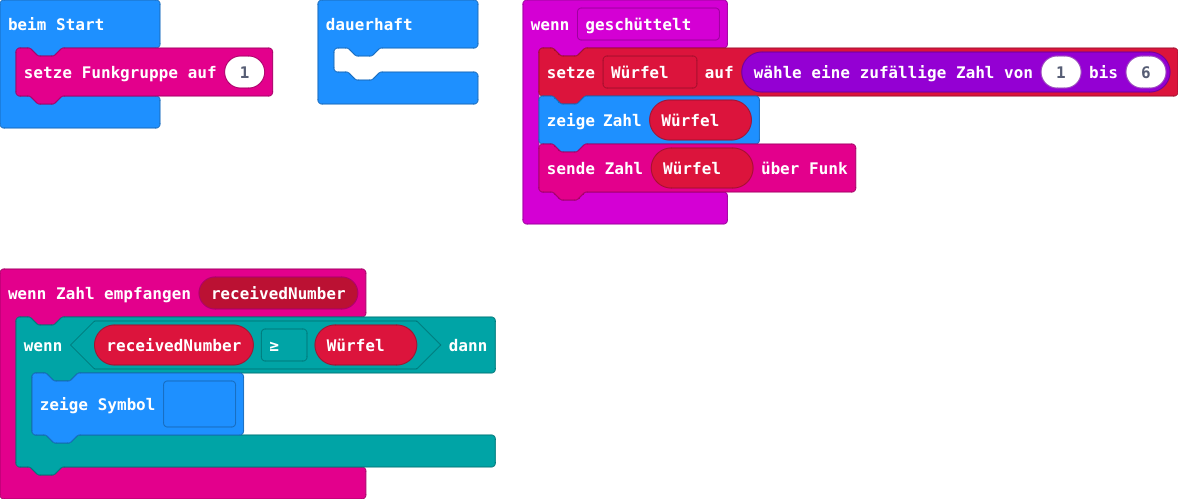
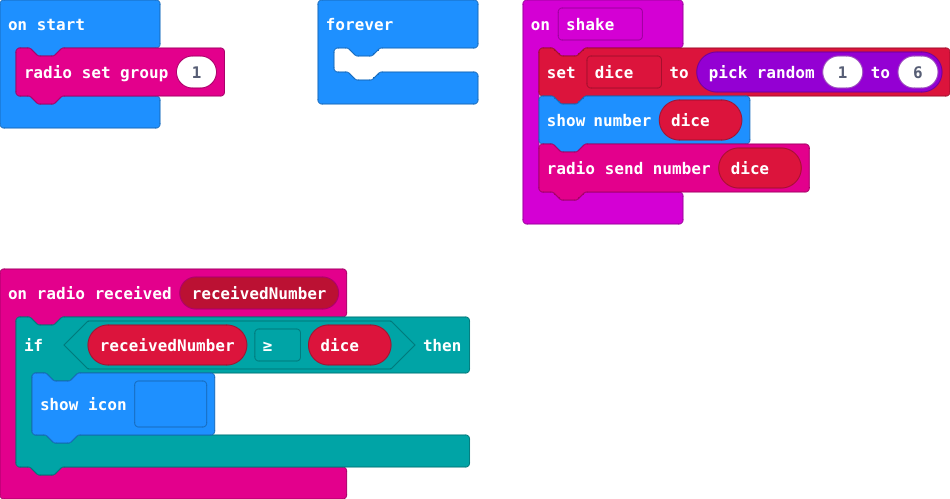
Update main.blocks, main.ts

diff --git a/main.ts b/main.ts
@@ -1,14 +1,14 @@
 radio.onReceivedNumber(function (receivedNumber) {
-    if (receivedNumber >= Würfel) {
+    if (receivedNumber >= dice) {
         basic.showIcon(IconNames.Sad)
     }
 })
 input.onGesture(Gesture.Shake, function () {
-    Würfel = randint(1, 6)
-    basic.showNumber(Würfel)
-    radio.sendNumber(Würfel)
+    dice = randint(1, 6)
+    basic.showNumber(dice)
+    radio.sendNumber(dice)
 })
-let Würfel = 0
+let dice = 0
 radio.setGroup(1)
 basic.forever(function () {
 	
